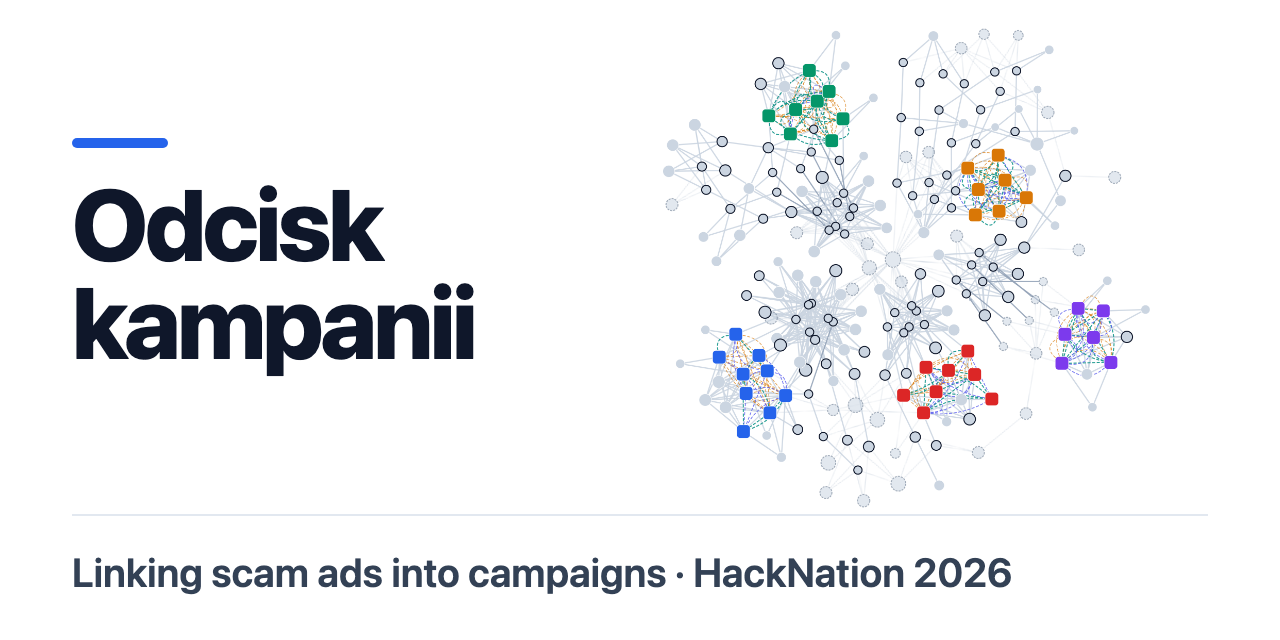
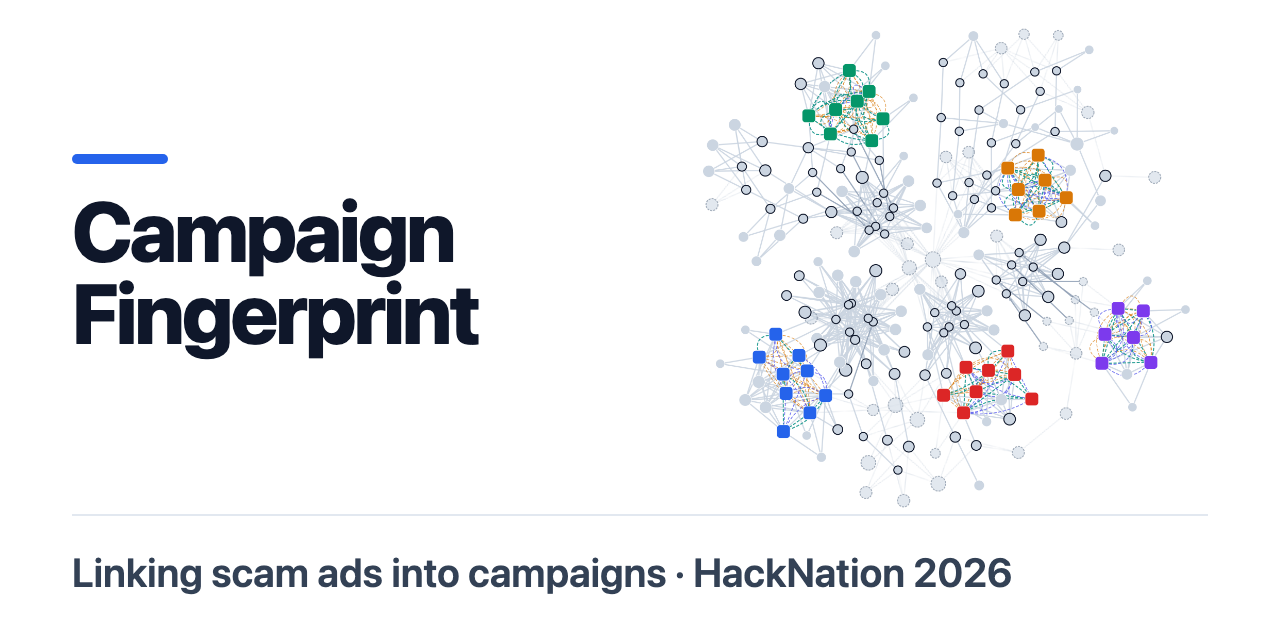
Nazwa Campaign Fingerprint w tytule aplikacji i na obrazie podglądu linku

Changed region(s): [[0.5, 0.0312, 0.9375, 0.7812], [0.0312, 0.2188, 0.375, 0.5938]]

diff --git a/app/layout.tsx b/app/layout.tsx
@@ -2,7 +2,7 @@ import type { Metadata } from "next";
 import "./globals.css";
 
 export const metadata: Metadata = {
-  title: "Campaign analysis — Odcisk kampanii",
+  title: "Campaign Fingerprint — campaign analysis",
   description: "Links single fraudulent ads into campaigns by shared traces of infrastructure, images and content.",
 };
 
